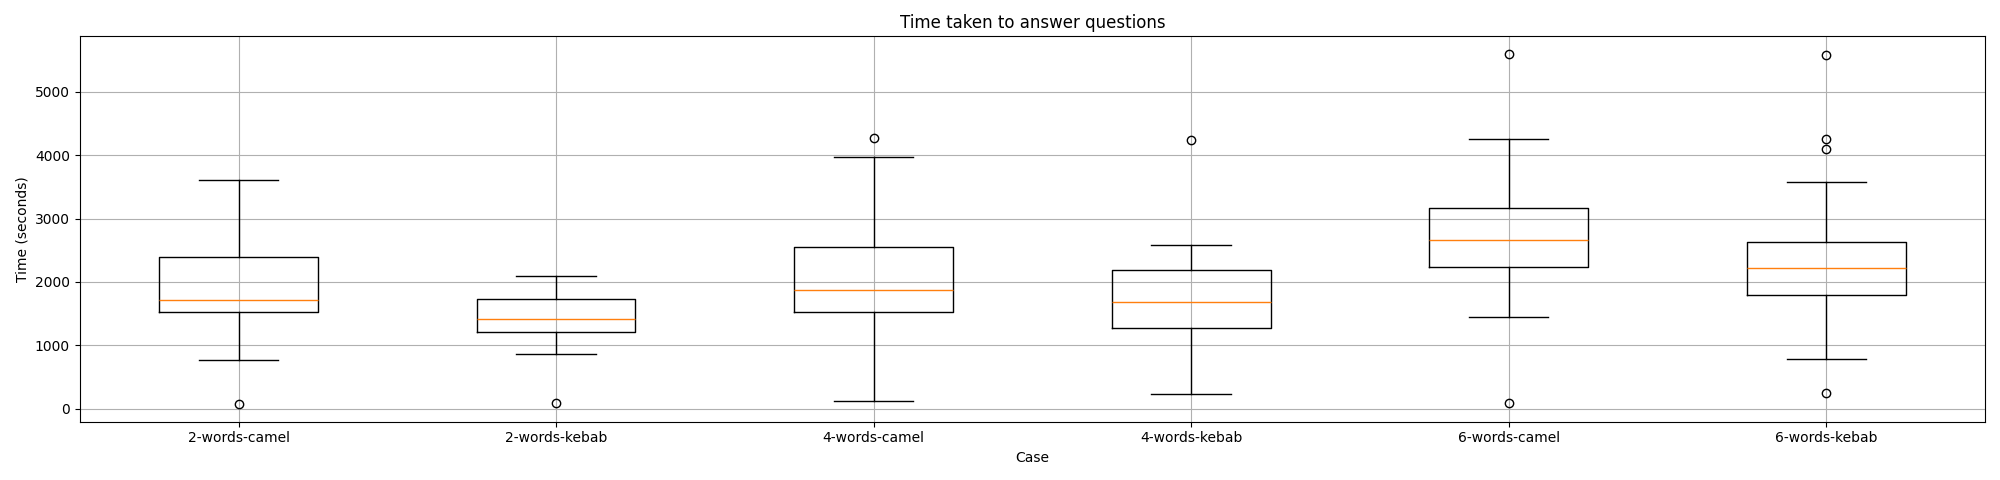
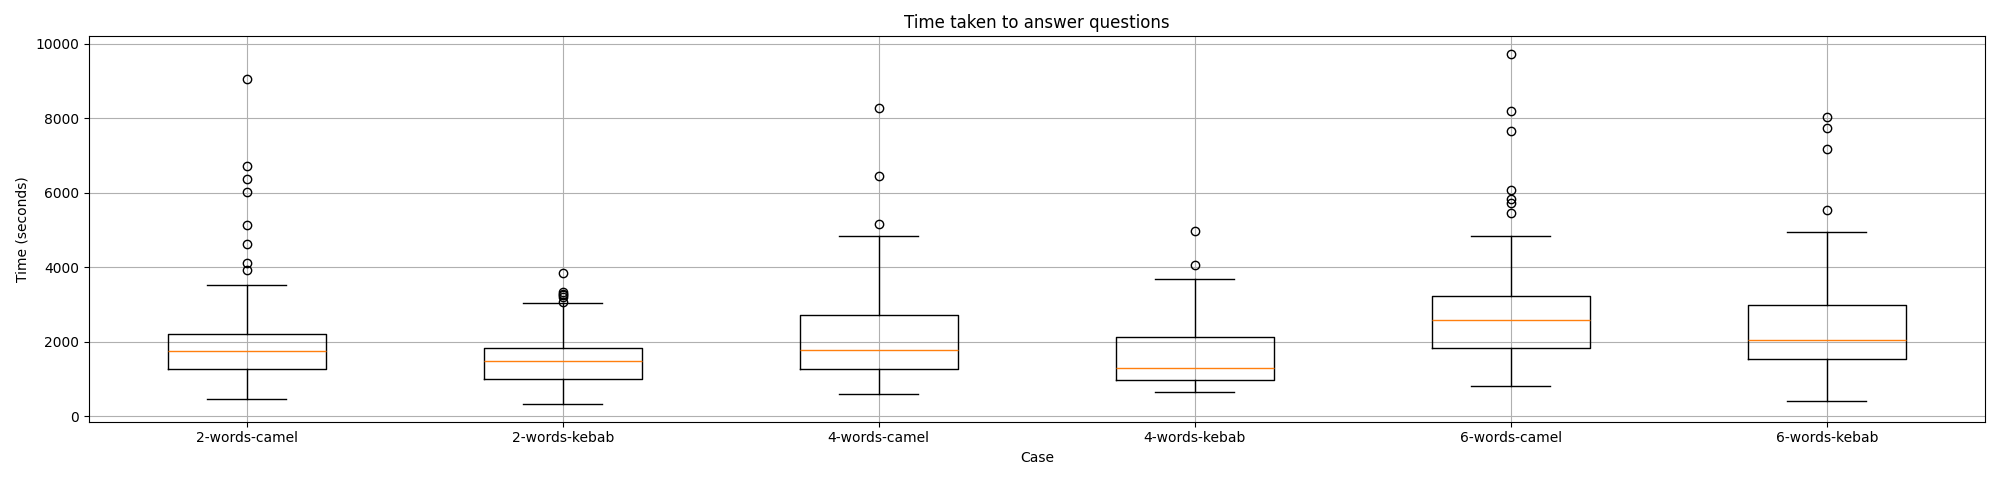
save

diff --git a/assignment-2/plots/plot.py b/assignment-2/plots/plot.py
@@ -7,8 +7,6 @@ import numpy as np
 with open('../data.json') as f:
     data = json.load(f)
 
-print(data)
-
 cases = {
     '2-words-camel': [],
     '2-words-kebab': [],
@@ -21,35 +19,21 @@ cases = {
 # Iterate over the data (it is an array of objects)
 for d in data:
     questions = d['questions']
-    prevCount = 2
-    kebabSum = 0
-    camelSum = 0
-    camelTot = 0
-    kebabTot = 0
     # iterate over the questions (it is an array of objects)§
     for q in questions:
+        if len(q['wrongs']) > 0 or q['timer'] < 300:
+            continue
         words = q['wordsCount']
         correct_word = q['correct_word']
         case = 'kebab'
         # if correct_word has an even one uppercase letter, then it is camel case
         if any(char.isupper() for char in correct_word):
             case = 'camel'
-            camelSum += q['timer']
-            camelTot += 1
+            cases[f'{words}-words-camel'].append(q['timer'])
         else:
-            kebabSum += q['timer']
-            kebabTot += 1
-        # append the words count to the corresponding case
-        if prevCount != words:
-            cases[f'{prevCount}-words-camel'].append(camelSum / camelTot)
-            cases[f'{prevCount}-words-kebab'].append(kebabSum / kebabTot)
-            prevCount = words
-            kebabSum = 0
-            camelSum = 0
-            kebabTot = 0
-            camelTot = 0
-    cases[f'{prevCount}-words-camel'].append(camelSum / camelTot)
-    cases[f'{prevCount}-words-kebab'].append(kebabSum / kebabTot)
+            cases[f'{words}-words-kebab'].append(q['timer'])
+            
+        
 
 # Now generate box plots for each case, all in one figure, all in the same graph, make the graph wide
 fig, ax = plt.subplots()
@@ -63,3 +47,19 @@ plt.title('Time taken to answer questions')
 plt.grid(True)
 plt.tight_layout()
 plt.savefig('plots.png')
+
+
+statistics = {}
+
+for key, values in cases.items():
+    values_array = np.array(values)
+    statistics[key] = {
+        'min': np.min(values_array),
+        'max': np.max(values_array),
+        '25th percentile': np.percentile(values_array, 25),
+        '50th percentile': np.percentile(values_array, 50), # Median
+        '75th percentile': np.percentile(values_array, 75),
+    }
+
+for key, value in statistics.items():
+    print(key, value)
